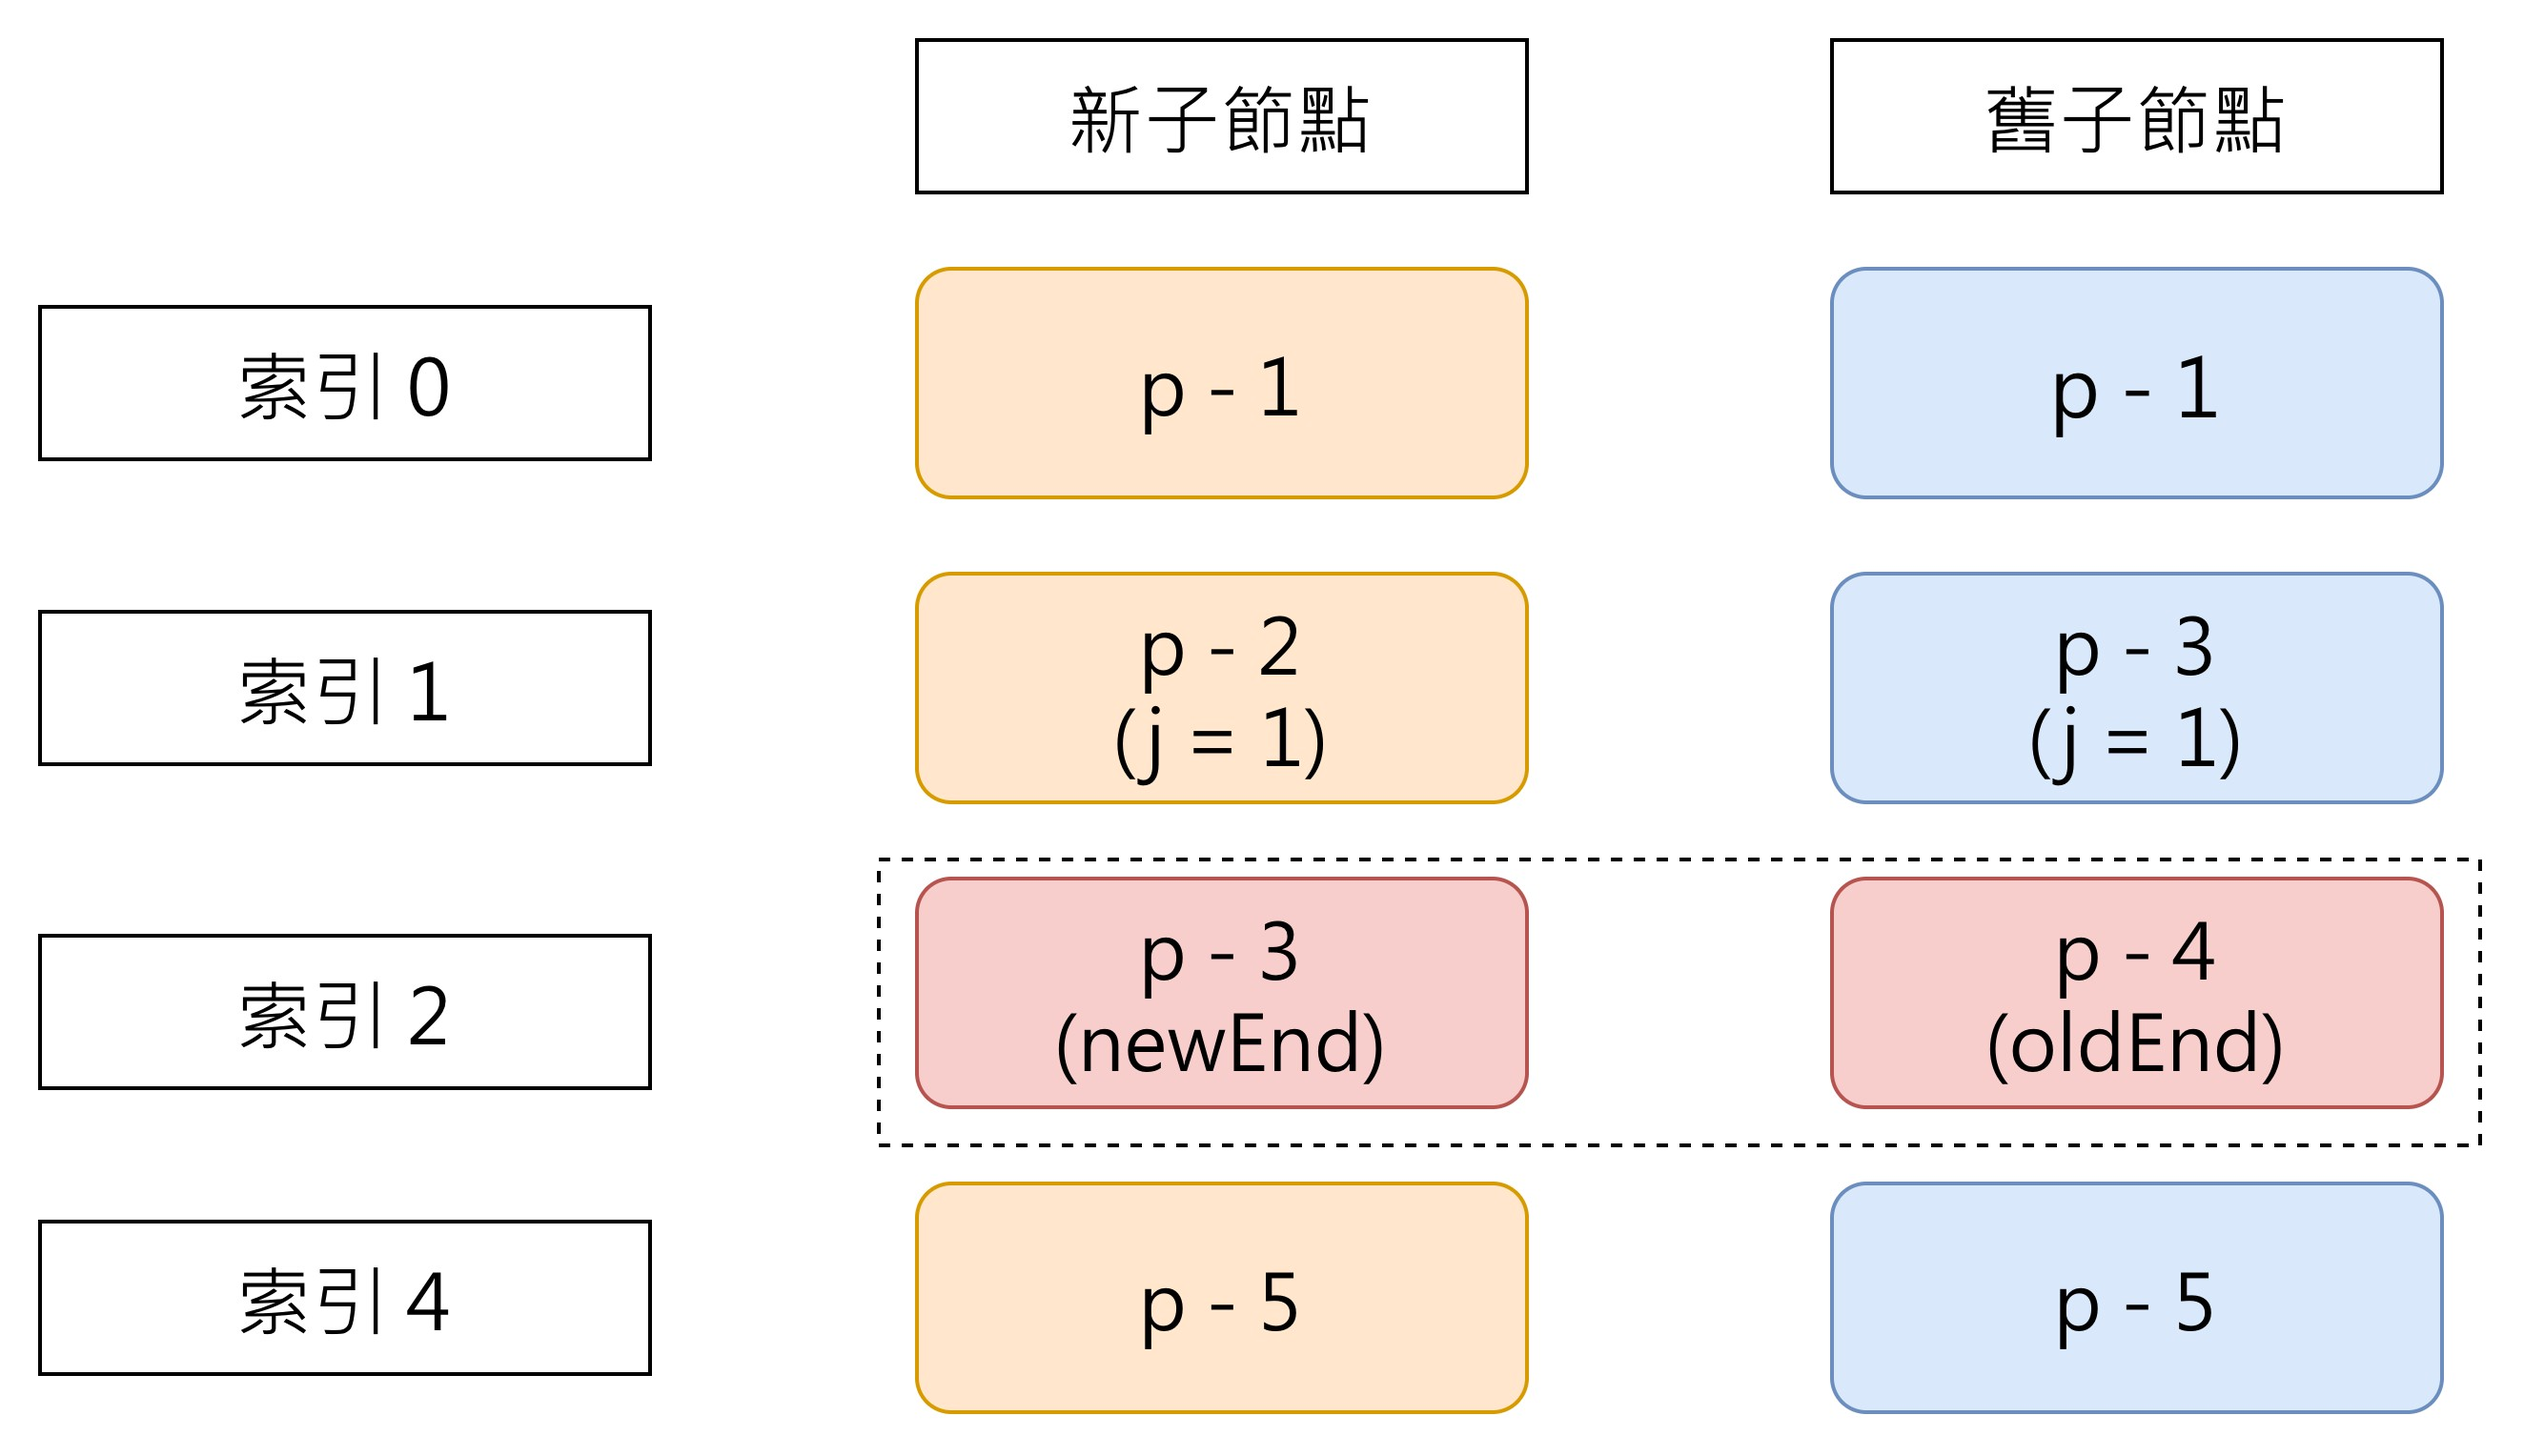
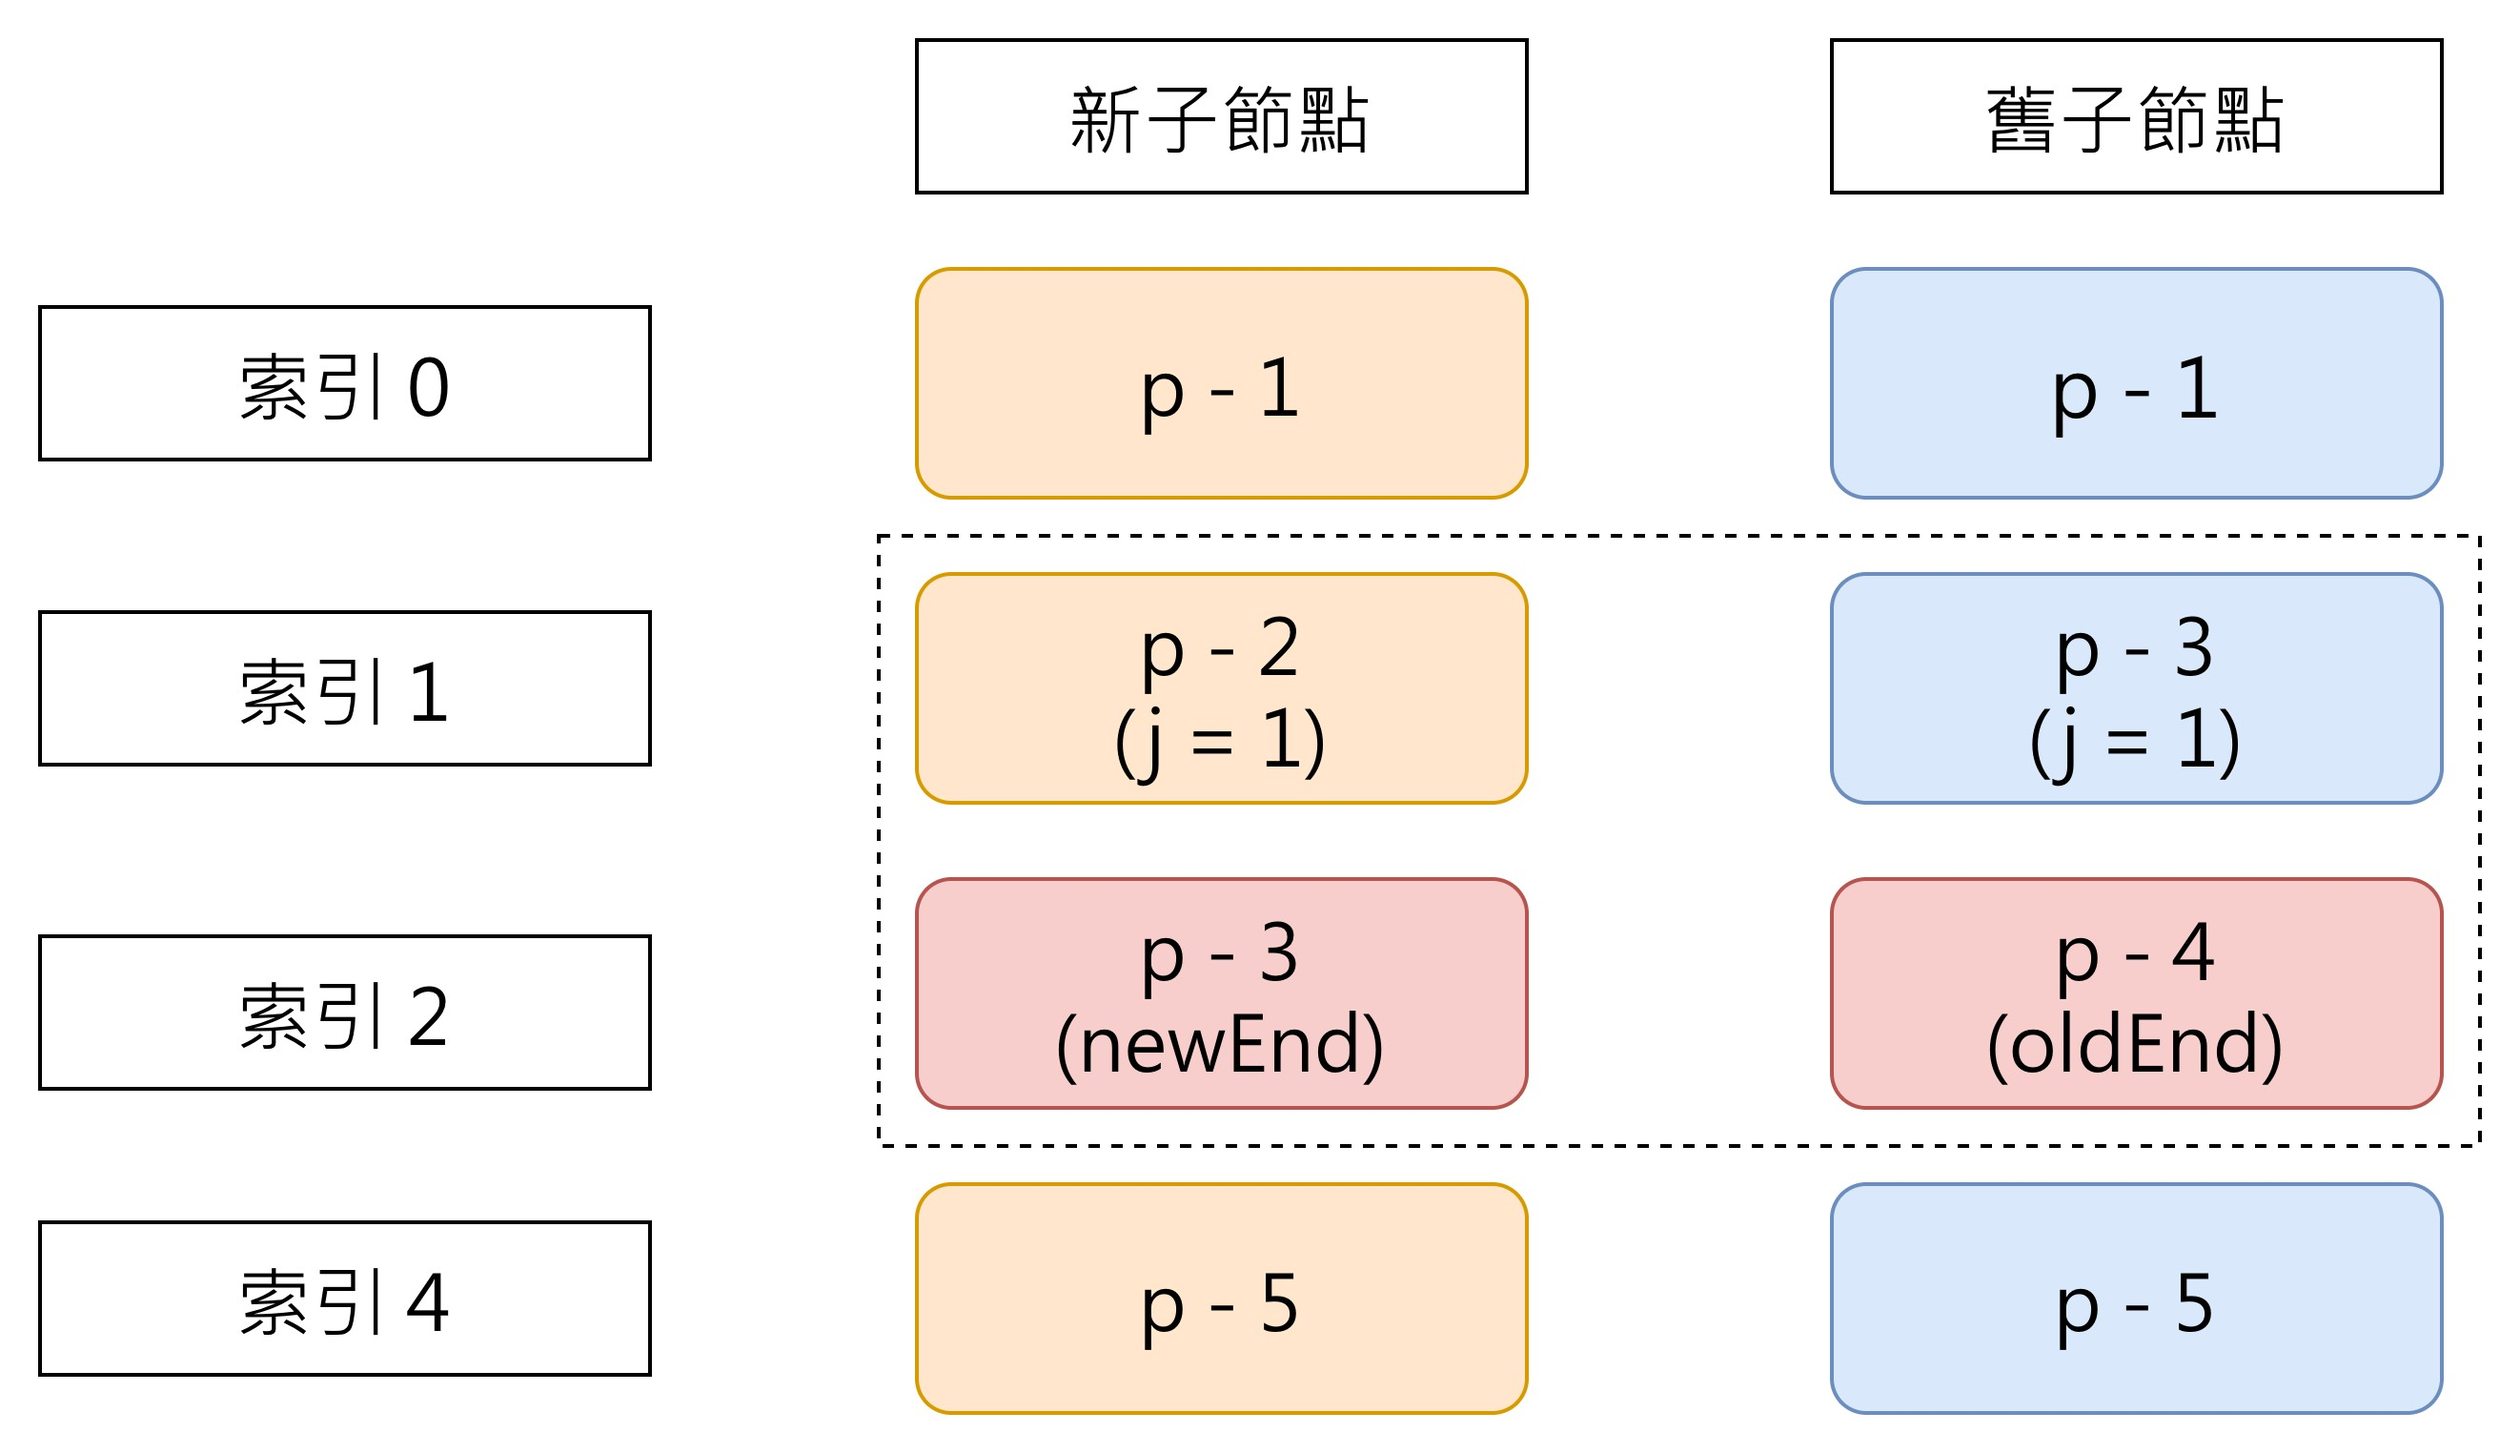
fix: 🐛 調整文件內容

diff --git a/style.css b/style.css
@@ -54,3 +54,7 @@ p {
 img {
   object-fit: contain;
 }
+
+.slidev-icon-btn {
+  aspect-ratio: auto;
+}

diff --git a/slides.md b/slides.md
@@ -29,6 +29,13 @@ seoMeta:
 
 # Vue3 快速 Diff 算法
 
+<div class="abs-br m-6 text-xl">
+  <a href="https://github.com/vuejs/core/blob/main/packages/runtime-core/src/renderer.ts" target="_blank" class="slidev-icon-btn">
+    <span class="pr-2">快速 diff 原始碼連結(1784 開始)</span>
+    <carbon:logo-github />
+  </a>
+</div>
+
 ---
 
 # 快速 Diff 起源
@@ -227,7 +234,7 @@ function patchKeyedChildren(n1, n2, container) {
 # 中段 diff 處理流程 1 - 確認可以複用的舊子節點
 
 
-- 雙層迴圈遍歷新舊子節點中段區域，找出可以複用的節點，並調用 patch 函數更新內容。
+- 雙層迴圈遍歷舊子節點中段區域，找出可以複用的節點，並調用 patch 函數更新內容。
 
 **時間複雜度 O(n x m) ⇒ O(n^ 2)**
 
